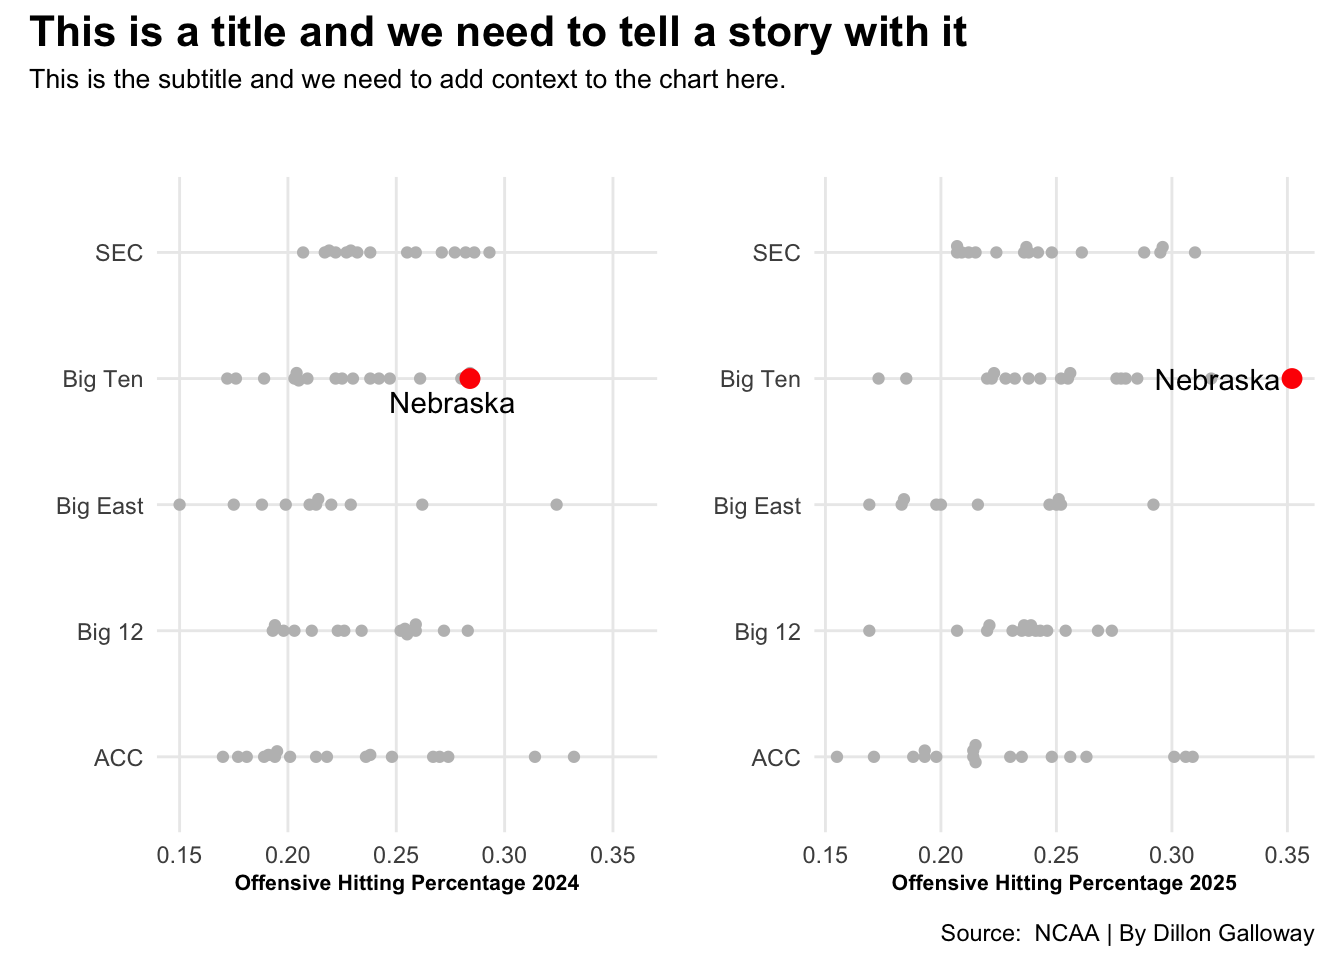
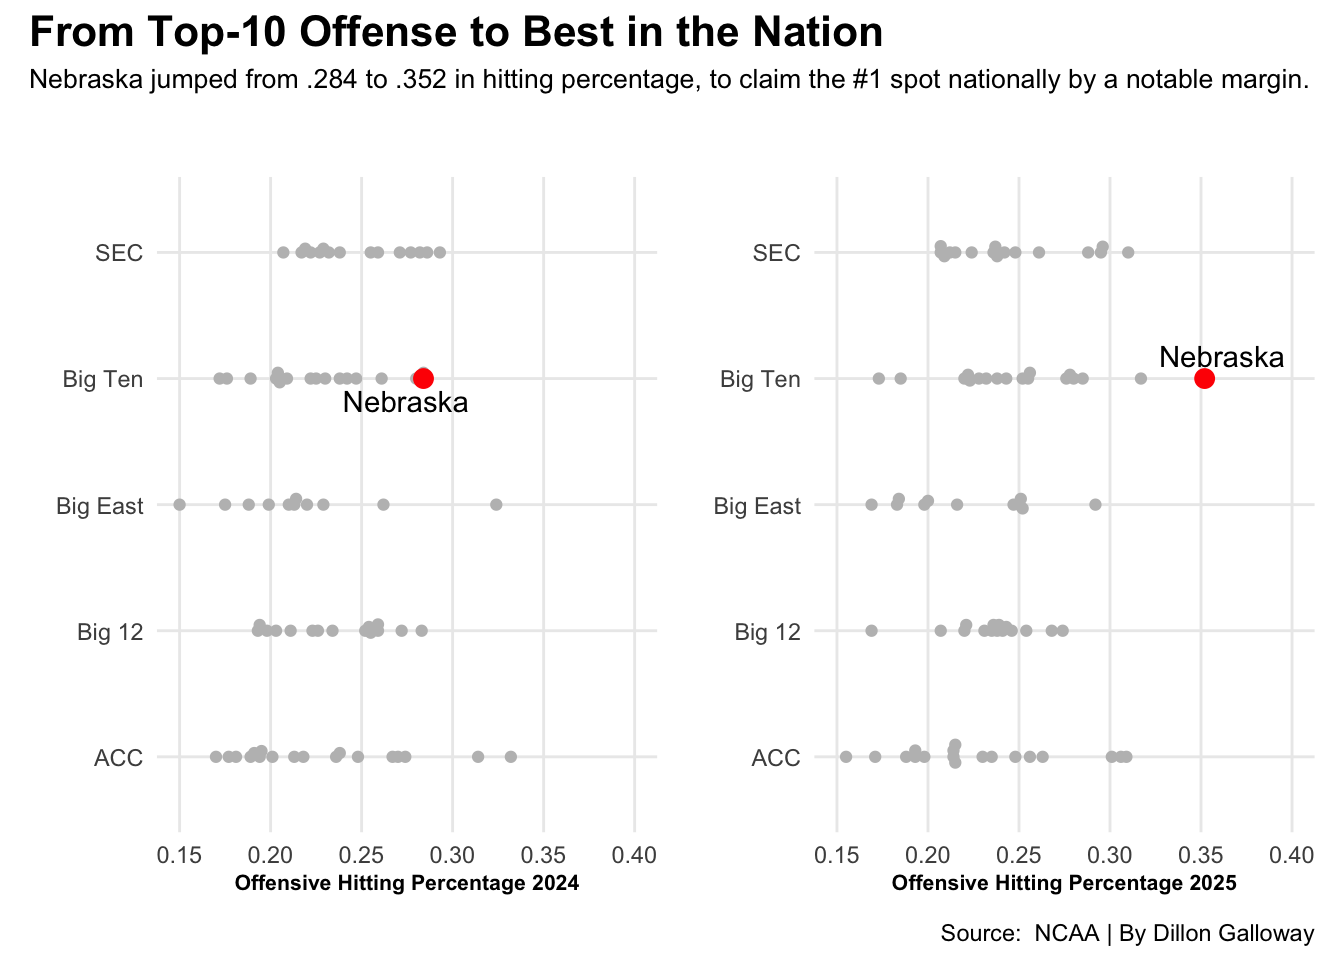
graph update

diff --git a/posts/has_nebraska_volleyball_improved_in_2025/index.html b/posts/has_nebraska_volleyball_improved_in_2025/index.html
@@ -216,7 +216,7 @@ pre > code.sourceCode > span > a:first-child::before { text-decoration: underlin
 <span id="cb1-15"><a href="#cb1-15" aria-hidden="true" tabindex="-1"></a>   <span class="fu">labs</span>(</span>
 <span id="cb1-16"><a href="#cb1-16" aria-hidden="true" tabindex="-1"></a>     <span class="at">x=</span><span class="st">"2025"</span>,</span>
 <span id="cb1-17"><a href="#cb1-17" aria-hidden="true" tabindex="-1"></a>     <span class="at">title=</span><span class="st">"Nebraska Volleyball dominates sets in 2025"</span>, </span>
-<span id="cb1-18"><a href="#cb1-18" aria-hidden="true" tabindex="-1"></a>     <span class="at">subtitle=</span><span class="st">"The Huskers have lost just 7 sets this season after dropping 16 in 2024. Opponents aren't just losing to </span><span class="sc">\n</span><span class="st">Nebraska anymore, they're barely staying competitive."</span>) <span class="sc">+</span> </span>
+<span id="cb1-18"><a href="#cb1-18" aria-hidden="true" tabindex="-1"></a>     <span class="at">subtitle=</span><span class="st">"The Huskers have lost just 7 sets this season after dropping 16 in 2024. Opponents aren't just losing </span><span class="sc">\n</span><span class="st">to Nebraska anymore, they're barely staying competitive."</span>) <span class="sc">+</span> </span>
 <span id="cb1-19"><a href="#cb1-19" aria-hidden="true" tabindex="-1"></a>   <span class="fu">theme</span>(</span>
 <span id="cb1-20"><a href="#cb1-20" aria-hidden="true" tabindex="-1"></a>    <span class="at">plot.title =</span> <span class="fu">element_text</span>(<span class="at">size =</span> <span class="dv">16</span>, <span class="at">face =</span> <span class="st">"bold"</span>),</span>
 <span id="cb1-21"><a href="#cb1-21" aria-hidden="true" tabindex="-1"></a>    <span class="at">axis.title =</span> <span class="fu">element_text</span>(<span class="at">size =</span> <span class="dv">10</span>),</span>
@@ -330,7 +330,7 @@ pre > code.sourceCode > span > a:first-child::before { text-decoration: underlin
 <span id="cb3-25"><a href="#cb3-25" aria-hidden="true" tabindex="-1"></a>  <span class="fu">geom_text_repel</span>(</span>
 <span id="cb3-26"><a href="#cb3-26" aria-hidden="true" tabindex="-1"></a>    <span class="at">data=</span>neb24, </span>
 <span id="cb3-27"><a href="#cb3-27" aria-hidden="true" tabindex="-1"></a>    <span class="fu">aes</span>(<span class="at">x=</span>hit_pct, <span class="at">y=</span> conference, <span class="at">label=</span><span class="st">"Nebraska"</span>))<span class="sc">+</span></span>
-<span id="cb3-28"><a href="#cb3-28" aria-hidden="true" tabindex="-1"></a>  <span class="fu">scale_x_continuous</span>(<span class="at">breaks =</span> <span class="fu">c</span>(.<span class="dv">15</span>, .<span class="dv">20</span>, .<span class="dv">25</span>, .<span class="dv">30</span>, .<span class="dv">35</span>), <span class="at">limits=</span><span class="fu">c</span>(.<span class="dv">15</span>, .<span class="dv">36</span>)) <span class="sc">+</span></span>
+<span id="cb3-28"><a href="#cb3-28" aria-hidden="true" tabindex="-1"></a>  <span class="fu">scale_x_continuous</span>(<span class="at">breaks =</span> <span class="fu">c</span>(.<span class="dv">15</span>, .<span class="dv">20</span>, .<span class="dv">25</span>, .<span class="dv">30</span>, .<span class="dv">35</span>, .<span class="dv">40</span>), <span class="at">limits=</span><span class="fu">c</span>(.<span class="dv">15</span>, .<span class="dv">4</span>)) <span class="sc">+</span></span>
 <span id="cb3-29"><a href="#cb3-29" aria-hidden="true" tabindex="-1"></a>  <span class="fu">labs</span>(</span>
 <span id="cb3-30"><a href="#cb3-30" aria-hidden="true" tabindex="-1"></a>    <span class="at">x=</span><span class="st">"Offensive Hitting Percentage 2024"</span>, <span class="at">y=</span><span class="st">""</span>, </span>
 <span id="cb3-31"><a href="#cb3-31" aria-hidden="true" tabindex="-1"></a>    <span class="at">title=</span><span class="st">""</span>) <span class="sc">+</span> </span>
@@ -355,30 +355,31 @@ pre > code.sourceCode > span > a:first-child::before { text-decoration: underlin
 <span id="cb3-50"><a href="#cb3-50" aria-hidden="true" tabindex="-1"></a>  <span class="fu">geom_text_repel</span>(</span>
 <span id="cb3-51"><a href="#cb3-51" aria-hidden="true" tabindex="-1"></a>    <span class="at">data=</span>neb25, </span>
 <span id="cb3-52"><a href="#cb3-52" aria-hidden="true" tabindex="-1"></a>    <span class="fu">aes</span>(<span class="at">x=</span>hit_pct, <span class="at">y=</span> conference, <span class="at">label=</span><span class="st">"Nebraska"</span>))<span class="sc">+</span></span>
-<span id="cb3-53"><a href="#cb3-53" aria-hidden="true" tabindex="-1"></a>  <span class="fu">labs</span>(</span>
-<span id="cb3-54"><a href="#cb3-54" aria-hidden="true" tabindex="-1"></a>    <span class="at">x=</span><span class="st">"Offensive Hitting Percentage 2025"</span>, <span class="at">y=</span><span class="st">""</span>, </span>
-<span id="cb3-55"><a href="#cb3-55" aria-hidden="true" tabindex="-1"></a>    <span class="at">title=</span><span class="st">""</span>) <span class="sc">+</span> </span>
-<span id="cb3-56"><a href="#cb3-56" aria-hidden="true" tabindex="-1"></a>  <span class="fu">theme_minimal</span>() <span class="sc">+</span> </span>
-<span id="cb3-57"><a href="#cb3-57" aria-hidden="true" tabindex="-1"></a>  <span class="fu">theme</span>(</span>
-<span id="cb3-58"><a href="#cb3-58" aria-hidden="true" tabindex="-1"></a>    <span class="at">plot.title =</span> <span class="fu">element_text</span>(<span class="at">size =</span> <span class="dv">17</span>, <span class="at">face =</span> <span class="st">"bold"</span>),</span>
-<span id="cb3-59"><a href="#cb3-59" aria-hidden="true" tabindex="-1"></a>    <span class="at">axis.title =</span> <span class="fu">element_text</span>(<span class="at">size =</span> <span class="dv">10</span>,<span class="at">face =</span> <span class="st">"bold"</span>), </span>
-<span id="cb3-60"><a href="#cb3-60" aria-hidden="true" tabindex="-1"></a>    <span class="at">plot.subtitle =</span> <span class="fu">element_text</span>(<span class="at">size=</span><span class="dv">11</span>), </span>
-<span id="cb3-61"><a href="#cb3-61" aria-hidden="true" tabindex="-1"></a>    <span class="at">panel.grid.minor =</span> <span class="fu">element_blank</span>(),</span>
-<span id="cb3-62"><a href="#cb3-62" aria-hidden="true" tabindex="-1"></a>    <span class="at">plot.title.position =</span> <span class="st">"plot"</span></span>
-<span id="cb3-63"><a href="#cb3-63" aria-hidden="true" tabindex="-1"></a>  )</span>
-<span id="cb3-64"><a href="#cb3-64" aria-hidden="true" tabindex="-1"></a></span>
-<span id="cb3-65"><a href="#cb3-65" aria-hidden="true" tabindex="-1"></a>beeswarm24 <span class="sc">+</span> beeswarm25 <span class="sc">+</span> </span>
-<span id="cb3-66"><a href="#cb3-66" aria-hidden="true" tabindex="-1"></a>  <span class="fu">plot_annotation</span>(</span>
-<span id="cb3-67"><a href="#cb3-67" aria-hidden="true" tabindex="-1"></a>    <span class="at">title =</span> <span class="st">"This is a title and we need to tell a story with it"</span>,</span>
-<span id="cb3-68"><a href="#cb3-68" aria-hidden="true" tabindex="-1"></a>    <span class="at">subtitle =</span> <span class="st">"This is the subtitle and we need to add context to the chart here."</span>,</span>
-<span id="cb3-69"><a href="#cb3-69" aria-hidden="true" tabindex="-1"></a>    <span class="at">caption =</span> <span class="st">"Source:  NCAA | By Dillon Galloway"</span></span>
-<span id="cb3-70"><a href="#cb3-70" aria-hidden="true" tabindex="-1"></a>  ) <span class="sc">&amp;</span> </span>
-<span id="cb3-71"><a href="#cb3-71" aria-hidden="true" tabindex="-1"></a>  <span class="fu">theme</span>(</span>
-<span id="cb3-72"><a href="#cb3-72" aria-hidden="true" tabindex="-1"></a>    <span class="at">plot.title =</span> <span class="fu">element_text</span>(<span class="at">size =</span> <span class="dv">16</span>, <span class="at">face =</span> <span class="st">"bold"</span>),</span>
-<span id="cb3-73"><a href="#cb3-73" aria-hidden="true" tabindex="-1"></a>    <span class="at">axis.title =</span> <span class="fu">element_text</span>(<span class="at">size =</span> <span class="dv">8</span>), </span>
-<span id="cb3-74"><a href="#cb3-74" aria-hidden="true" tabindex="-1"></a>    <span class="at">plot.subtitle =</span> <span class="fu">element_text</span>(<span class="at">size=</span><span class="dv">10</span>), </span>
-<span id="cb3-75"><a href="#cb3-75" aria-hidden="true" tabindex="-1"></a>    <span class="at">panel.grid.minor =</span> <span class="fu">element_blank</span>()</span>
-<span id="cb3-76"><a href="#cb3-76" aria-hidden="true" tabindex="-1"></a>  )</span></code></pre></div><button title="Copy to Clipboard" class="code-copy-button"><i class="bi"></i></button></div>
+<span id="cb3-53"><a href="#cb3-53" aria-hidden="true" tabindex="-1"></a>  <span class="fu">scale_x_continuous</span>(<span class="at">breaks =</span> <span class="fu">c</span>(.<span class="dv">15</span>, .<span class="dv">20</span>, .<span class="dv">25</span>, .<span class="dv">30</span>, .<span class="dv">35</span>, .<span class="dv">40</span>), <span class="at">limits=</span><span class="fu">c</span>(.<span class="dv">15</span>, .<span class="dv">4</span>)) <span class="sc">+</span></span>
+<span id="cb3-54"><a href="#cb3-54" aria-hidden="true" tabindex="-1"></a>  <span class="fu">labs</span>(</span>
+<span id="cb3-55"><a href="#cb3-55" aria-hidden="true" tabindex="-1"></a>    <span class="at">x=</span><span class="st">"Offensive Hitting Percentage 2025"</span>, <span class="at">y=</span><span class="st">""</span>, </span>
+<span id="cb3-56"><a href="#cb3-56" aria-hidden="true" tabindex="-1"></a>    <span class="at">title=</span><span class="st">""</span>) <span class="sc">+</span> </span>
+<span id="cb3-57"><a href="#cb3-57" aria-hidden="true" tabindex="-1"></a>  <span class="fu">theme_minimal</span>() <span class="sc">+</span> </span>
+<span id="cb3-58"><a href="#cb3-58" aria-hidden="true" tabindex="-1"></a>  <span class="fu">theme</span>(</span>
+<span id="cb3-59"><a href="#cb3-59" aria-hidden="true" tabindex="-1"></a>    <span class="at">plot.title =</span> <span class="fu">element_text</span>(<span class="at">size =</span> <span class="dv">17</span>, <span class="at">face =</span> <span class="st">"bold"</span>),</span>
+<span id="cb3-60"><a href="#cb3-60" aria-hidden="true" tabindex="-1"></a>    <span class="at">axis.title =</span> <span class="fu">element_text</span>(<span class="at">size =</span> <span class="dv">10</span>,<span class="at">face =</span> <span class="st">"bold"</span>), </span>
+<span id="cb3-61"><a href="#cb3-61" aria-hidden="true" tabindex="-1"></a>    <span class="at">plot.subtitle =</span> <span class="fu">element_text</span>(<span class="at">size=</span><span class="dv">11</span>), </span>
+<span id="cb3-62"><a href="#cb3-62" aria-hidden="true" tabindex="-1"></a>    <span class="at">panel.grid.minor =</span> <span class="fu">element_blank</span>(),</span>
+<span id="cb3-63"><a href="#cb3-63" aria-hidden="true" tabindex="-1"></a>    <span class="at">plot.title.position =</span> <span class="st">"plot"</span></span>
+<span id="cb3-64"><a href="#cb3-64" aria-hidden="true" tabindex="-1"></a>  )</span>
+<span id="cb3-65"><a href="#cb3-65" aria-hidden="true" tabindex="-1"></a></span>
+<span id="cb3-66"><a href="#cb3-66" aria-hidden="true" tabindex="-1"></a>beeswarm24 <span class="sc">+</span> beeswarm25 <span class="sc">+</span> </span>
+<span id="cb3-67"><a href="#cb3-67" aria-hidden="true" tabindex="-1"></a>  <span class="fu">plot_annotation</span>(</span>
+<span id="cb3-68"><a href="#cb3-68" aria-hidden="true" tabindex="-1"></a>    <span class="at">title =</span> <span class="st">"From Top-10 Offense to Best in the Nation"</span>,</span>
+<span id="cb3-69"><a href="#cb3-69" aria-hidden="true" tabindex="-1"></a>    <span class="at">subtitle =</span> <span class="st">"Nebraska jumped from .284 to .352 in hitting percentage, to claim the #1 spot nationally by a notable margin."</span>,</span>
+<span id="cb3-70"><a href="#cb3-70" aria-hidden="true" tabindex="-1"></a>    <span class="at">caption =</span> <span class="st">"Source:  NCAA | By Dillon Galloway"</span></span>
+<span id="cb3-71"><a href="#cb3-71" aria-hidden="true" tabindex="-1"></a>  ) <span class="sc">&amp;</span> </span>
+<span id="cb3-72"><a href="#cb3-72" aria-hidden="true" tabindex="-1"></a>  <span class="fu">theme</span>(</span>
+<span id="cb3-73"><a href="#cb3-73" aria-hidden="true" tabindex="-1"></a>    <span class="at">plot.title =</span> <span class="fu">element_text</span>(<span class="at">size =</span> <span class="dv">16</span>, <span class="at">face =</span> <span class="st">"bold"</span>),</span>
+<span id="cb3-74"><a href="#cb3-74" aria-hidden="true" tabindex="-1"></a>    <span class="at">axis.title =</span> <span class="fu">element_text</span>(<span class="at">size =</span> <span class="dv">8</span>), </span>
+<span id="cb3-75"><a href="#cb3-75" aria-hidden="true" tabindex="-1"></a>    <span class="at">plot.subtitle =</span> <span class="fu">element_text</span>(<span class="at">size=</span><span class="dv">10</span>), </span>
+<span id="cb3-76"><a href="#cb3-76" aria-hidden="true" tabindex="-1"></a>    <span class="at">panel.grid.minor =</span> <span class="fu">element_blank</span>()</span>
+<span id="cb3-77"><a href="#cb3-77" aria-hidden="true" tabindex="-1"></a>  )</span></code></pre></div><button title="Copy to Clipboard" class="code-copy-button"><i class="bi"></i></button></div>
 </details>
 <div class="cell-output-display">
 <div>

diff --git a/index.html b/index.html
@@ -209,7 +209,7 @@ window.Quarto = {
 
 <div class="quarto-listing quarto-listing-container-default" id="listing-listing">
 <div class="list quarto-listing-default">
-<div class="quarto-post image-right" data-index="0" data-categories="dm9sbGV5YmFsbCUyQ3N0YXRzJTJDY29sbGVnZQ==" data-listing-date-sort="1764914400000" data-listing-file-modified-sort="1764958957301" data-listing-date-modified-sort="NaN" data-listing-reading-time-sort="9" data-listing-word-count-sort="1640">
+<div class="quarto-post image-right" data-index="0" data-categories="dm9sbGV5YmFsbCUyQ3N0YXRzJTJDY29sbGVnZQ==" data-listing-date-sort="1764914400000" data-listing-file-modified-sort="1764961355488" data-listing-date-modified-sort="NaN" data-listing-reading-time-sort="9" data-listing-word-count-sort="1653">
 <div class="thumbnail"><a href="./posts/has_nebraska_volleyball_improved_in_2025/index.html" class="no-external">
 
 <img loading="lazy" src="./posts/has_nebraska_volleyball_improved_in_2025/post_one_image.png" class="thumbnail-image">
